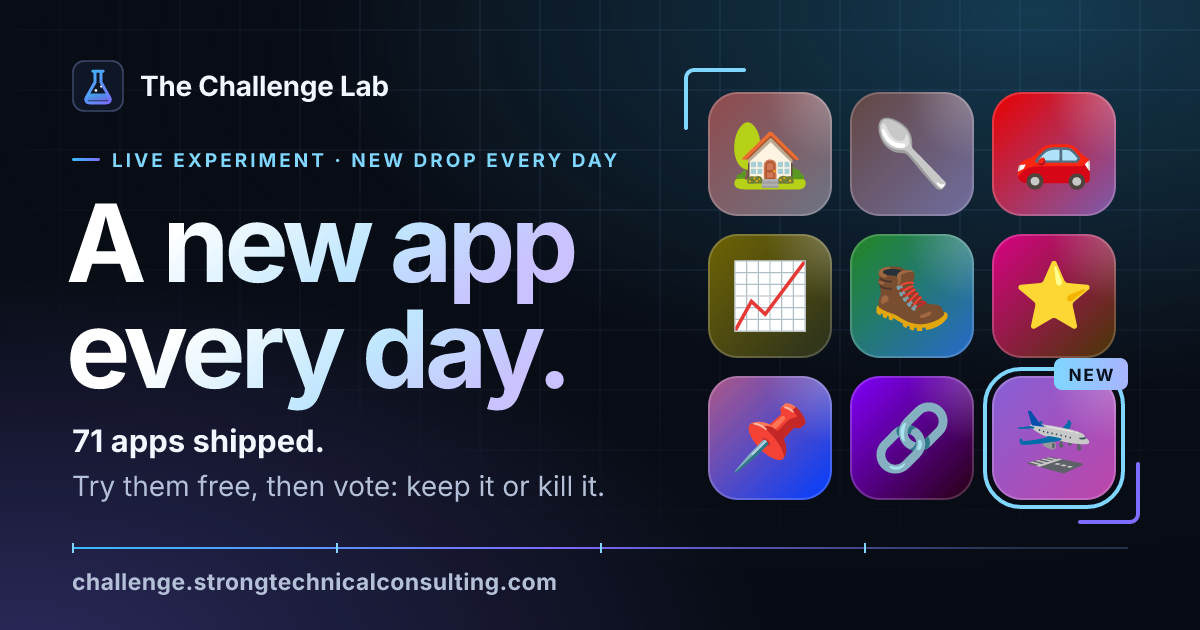
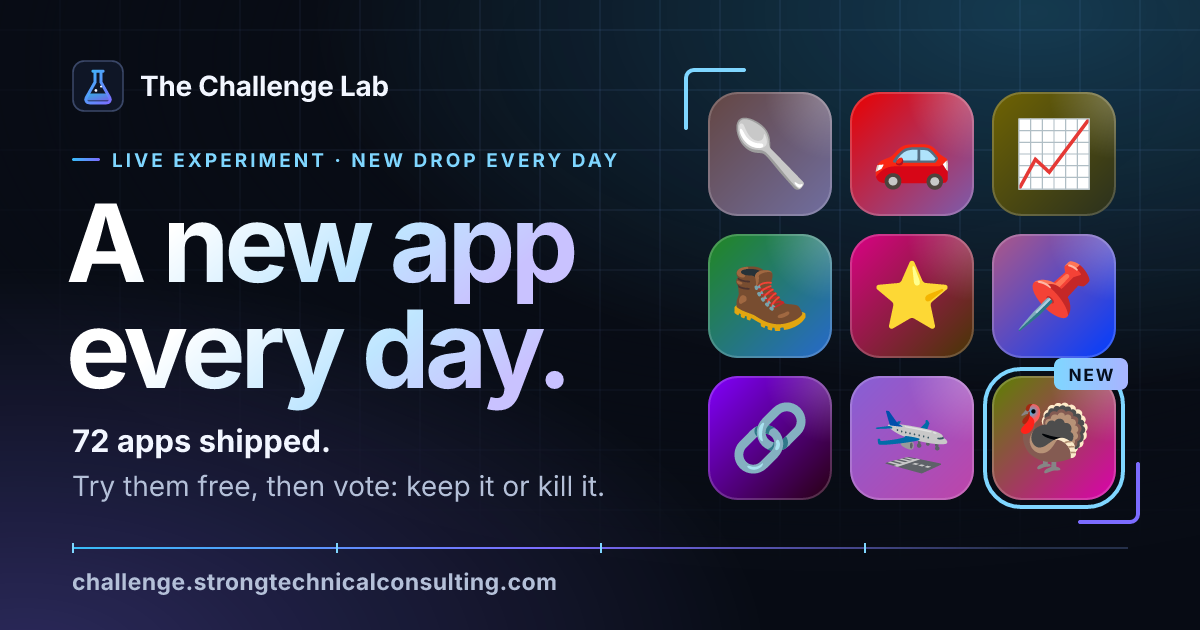
Baste: link preview, build stats, and polish from the browser pass
The og card and the landing card redrawn for drop #72, the build-stats row
and TOKENS.md from the builder's transcript. From the browser pass: overdue
is said only of a step that is due now, and on a phone a step's chip sits
under its words instead of squeezing them.

Changed region(s): [[0.5858, 0.1206, 0.9558, 0.8143], [0.5858, 0.1206, 0.6783, 0.3016], [0.0617, 0.6635, 0.2775, 0.7238]]

diff --git a/challenge/apps/baste/public/index.html b/challenge/apps/baste/public/index.html
@@ -15,6 +15,23 @@
   <link rel="apple-touch-icon" href="icon.svg">
   <link rel="manifest" href="manifest.webmanifest">
   <link rel="stylesheet" href="app.css">
+  <!-- lab:og (written by scripts/og.js from lab.js; npm run og, never by hand) -->
+  <meta property="og:type" content="website">
+  <meta property="og:site_name" content="The Challenge Lab">
+  <meta property="og:title" content="Baste — One oven, nine dishes, dinner at four - the whole day worked backward, on every phone in the kitchen.">
+  <meta property="og:description" content="For whoever is cooking the big dinner - Thanksgiving today, Christmas and Easter after it. Say when you eat, how many ovens you have and what you’re making: a turkey by weight, stuffed or not, ham, the sides, the rolls, the pies, or your own dishes. Baste works every dish backwar">
+  <meta property="og:url" content="https://challenge.strongtechnicalconsulting.com/baste/">
+  <meta property="og:image" content="https://challenge.strongtechnicalconsulting.com/og/baste.png?v=29aa0b7c58">
+  <meta property="og:image:type" content="image/png">
+  <meta property="og:image:width" content="1200">
+  <meta property="og:image:height" content="630">
+  <meta property="og:image:alt" content="Baste, drop #72 in the Challenge Lab: One oven, nine dishes, dinner at four - the whole day worked backward, on every phone in the kitchen.">
+  <meta name="twitter:card" content="summary_large_image">
+  <meta name="twitter:title" content="Baste — One oven, nine dishes, dinner at four - the whole day worked backward, on every phone in the kitchen.">
+  <meta name="twitter:description" content="For whoever is cooking the big dinner - Thanksgiving today, Christmas and Easter after it. Say when you eat, how many ovens you have and what you’re making: a turkey by weight, stuffed or not, ham, the sides, the rolls, the pies, or your own dishes. Baste works every dish backwar">
+  <meta name="twitter:image" content="https://challenge.strongtechnicalconsulting.com/og/baste.png?v=29aa0b7c58">
+  <meta name="twitter:image:alt" content="Baste, drop #72 in the Challenge Lab: One oven, nine dishes, dinner at four - the whole day worked backward, on every phone in the kitchen.">
+  <!-- /lab:og -->
 </head>
 <body>
   <a class="skip" href="#main" id="skip">Skip to the page</a>

diff --git a/challenge/public/index.html b/challenge/public/index.html
@@ -16,18 +16,18 @@
   <meta property="og:type" content="website">
   <meta property="og:site_name" content="The Challenge Lab">
   <meta property="og:title" content="The Challenge Lab — a new app every day">
-  <meta property="og:description" content="71 apps so far, each trying to fix a real headache, at home or at work, in a way that’s fun to use. Try them free, then vote: keep it or kill it.">
+  <meta property="og:description" content="72 apps so far, each trying to fix a real headache, at home or at work, in a way that’s fun to use. Try them free, then vote: keep it or kill it.">
   <meta property="og:url" content="https://challenge.strongtechnicalconsulting.com/">
-  <meta property="og:image" content="https://challenge.strongtechnicalconsulting.com/og/lab.png?v=14cd2b8279">
+  <meta property="og:image" content="https://challenge.strongtechnicalconsulting.com/og/lab.png?v=447b006944">
   <meta property="og:image:type" content="image/png">
   <meta property="og:image:width" content="1200">
   <meta property="og:image:height" content="630">
-  <meta property="og:image:alt" content="The Challenge Lab: a new app every day. 71 apps shipped so far.">
+  <meta property="og:image:alt" content="The Challenge Lab: a new app every day. 72 apps shipped so far.">
   <meta name="twitter:card" content="summary_large_image">
   <meta name="twitter:title" content="The Challenge Lab — a new app every day">
-  <meta name="twitter:description" content="71 apps so far, each trying to fix a real headache, at home or at work, in a way that’s fun to use. Try them free, then vote: keep it or kill it.">
-  <meta name="twitter:image" content="https://challenge.strongtechnicalconsulting.com/og/lab.png?v=14cd2b8279">
-  <meta name="twitter:image:alt" content="The Challenge Lab: a new app every day. 71 apps shipped so far.">
+  <meta name="twitter:description" content="72 apps so far, each trying to fix a real headache, at home or at work, in a way that’s fun to use. Try them free, then vote: keep it or kill it.">
+  <meta name="twitter:image" content="https://challenge.strongtechnicalconsulting.com/og/lab.png?v=447b006944">
+  <meta name="twitter:image:alt" content="The Challenge Lab: a new app every day. 72 apps shipped so far.">
   <!-- /lab:og -->
 </head>
 <body>

diff --git a/challenge/apps/baste/public/baste-core.js b/challenge/apps/baste/public/baste-core.js
@@ -698,7 +698,9 @@
     function push(x, kind, key, at, due, extra) {
       var d = doneAt(v, key);
       var s = { key: key, kind: kind, id: x.id, name: x.name, at: d !== null ? d : at, due: due, done: d !== null ? { at: d, by: v.done[key].by || '' } : null, who: own(v.claims, key) ? v.claims[key] : (x.d.who || ''), claimed: own(v.claims, key), oven: x.oven };
-      s.overdue = now !== null && d === null && now - due >= MIN ? Math.floor((now - due) / MIN) : 0;
+      // Overdue is said only of a step that is due now - not of one that has
+      // been pushed into the future by what comes before it.
+      s.overdue = now !== null && d === null && now - due >= MIN && s.at <= now + MIN ? Math.floor((now - due) / MIN) : 0;
       if (extra) for (var k in extra) if (own(extra, k)) s[k] = extra[k];
       steps.push(s);
       return s;

diff --git a/challenge/apps/baste/public/app.css b/challenge/apps/baste/public/app.css
@@ -257,6 +257,10 @@ button.item { width: 100%; background: none; border: 0; text-align: left; }
 .sheet .body { clear: none; }
 .toast { position: fixed; left: 50%; bottom: calc(84px + env(safe-area-inset-bottom)); transform: translateX(-50%); z-index: 70; max-width: calc(100vw - 32px); padding: 12px 18px; border-radius: 999px; background: var(--text); color: var(--bg); font-size: var(--t4); font-weight: 600; box-shadow: var(--shadow-float); text-align: center; }
 
+@media (max-width: 599.98px) {
+  .step-main { grid-template-columns: 76px minmax(0, 1fr); }
+  .step-main .chip { grid-column: 2; justify-self: start; }
+}
 @media (max-width: 359.98px) {
   .wrap { padding: 20px 16px 0; }
   .step-main { grid-template-columns: 64px minmax(0, 1fr); }

diff --git a/challenge/TOKENS.md b/challenge/TOKENS.md
@@ -242,6 +242,7 @@ build session had no deploy key to read the usage records on 2026-11-20).
 | Punch | one builder agent (a rebuild) | 24.1M | 23.3M | 164K | 1 | 39 min | exact |
 | As Filed | one builder agent (resumed after a pause) | 31.4M | 29.1M | 207K | 1 | ~46 min | tokens exact; time estimated |
 | Arrivals | one builder agent | 32.9M | 31.6M | 203K | 1 | 54 min | exact up to the commit (the agent recorded its own run, so its last few minutes are not in it) |
+| Baste | one builder agent (the Thanksgiving holiday drop) | 22.0M | 20.6M | 220K | 1 | 46 min | exact up to the commit (the agent recorded its own run, so its last few minutes are not in it) |
 
 Rush's builder stopped twice at the account's usage limit (about 7 hours in
 all) and was resumed; the agent time leaves those hours out, so its row is
